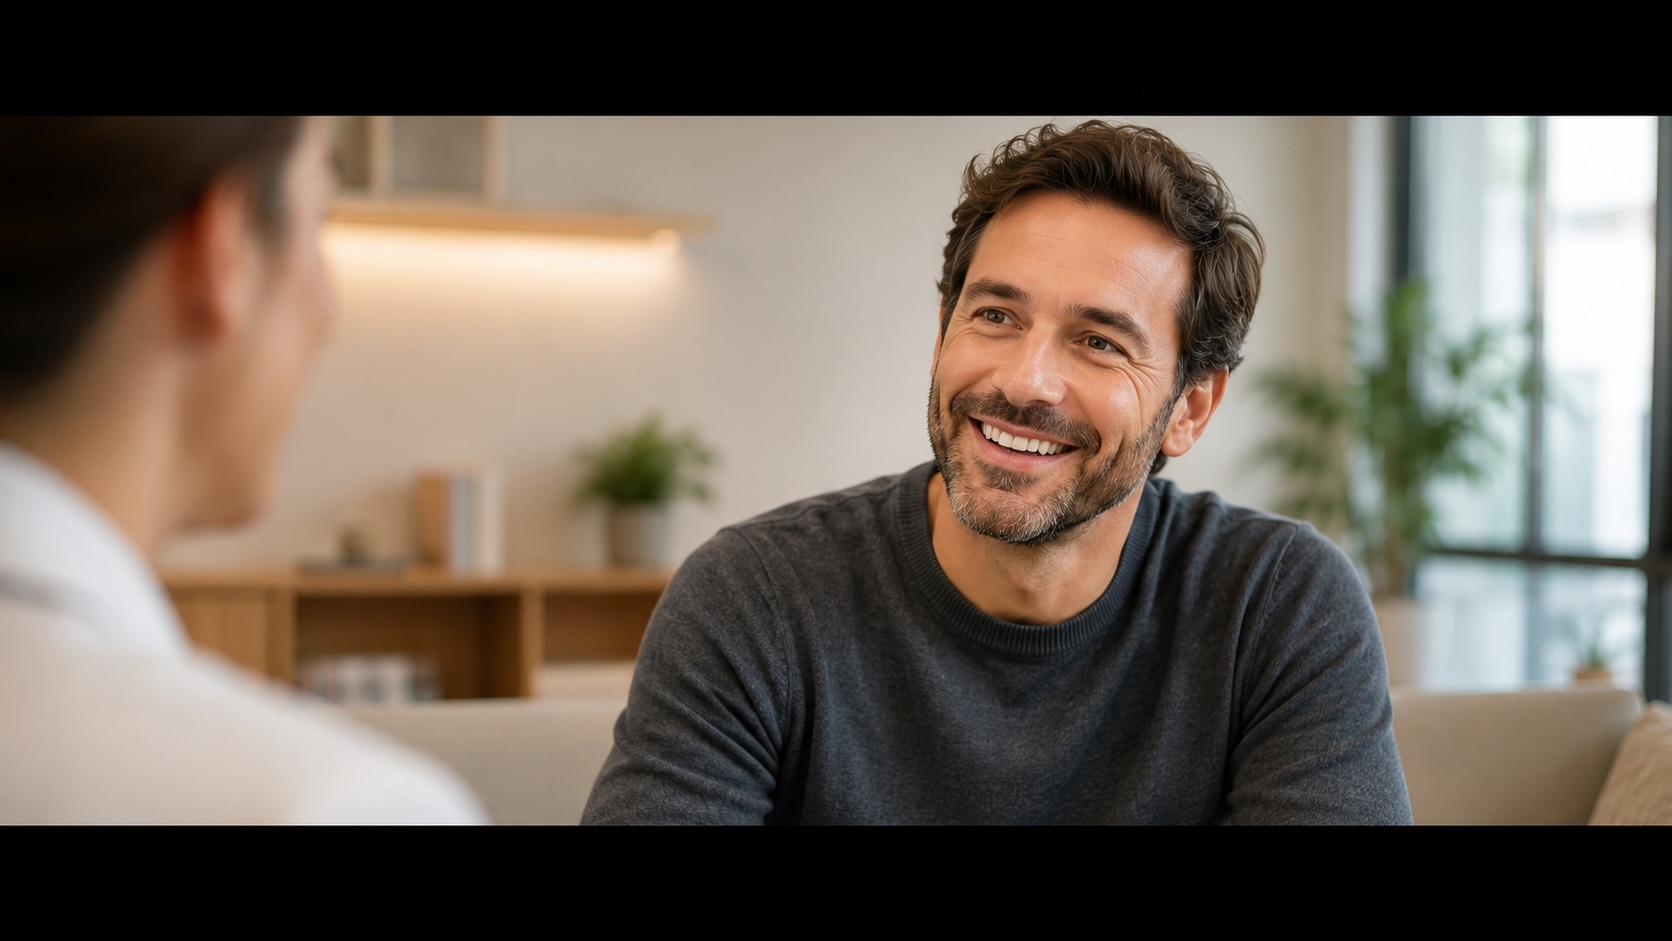
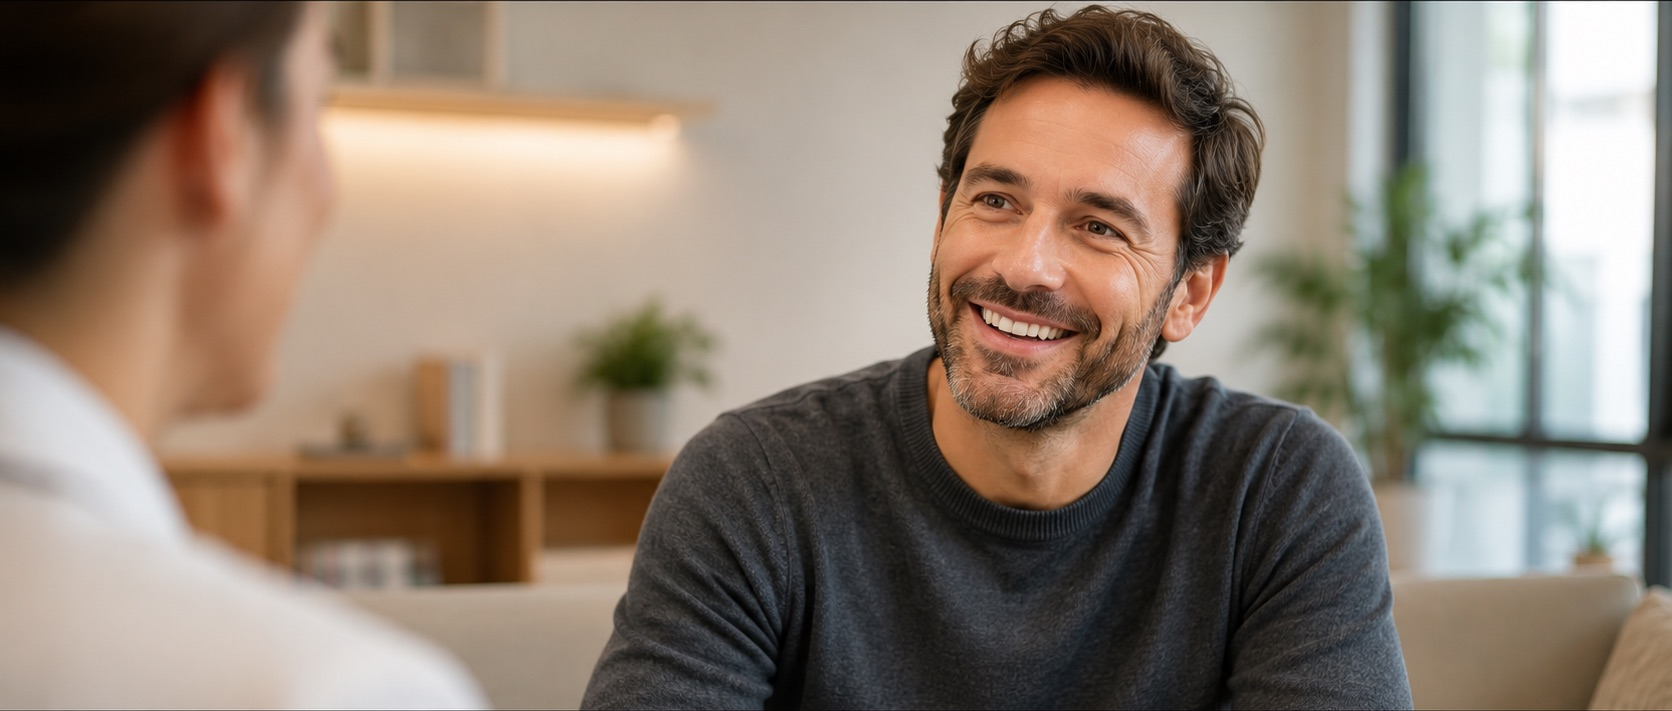
Recortar las bandas negras de la foto de la banda y ajustar su encuadre
Claude-Session: https://claude.ai/code/session_01WhrzyQvjBNM7PiUmzQ9WnA

diff --git a/apps/web/app/page.tsx b/apps/web/app/page.tsx
@@ -128,9 +128,9 @@ export default function Home() {
           src="/consulta.jpg"
           alt="Paciente sonriendo durante una sesión en la clínica LUMIA"
           width={1672}
-          height={941}
+          height={711}
           sizes="100vw"
-          className="aspect-4/3 w-full rounded-panel object-cover object-[50%_42%] md:aspect-[1856/428]"
+          className="aspect-4/3 w-full rounded-panel object-cover object-[60%_35%] md:aspect-[1856/428]"
         />
       </section>
 
